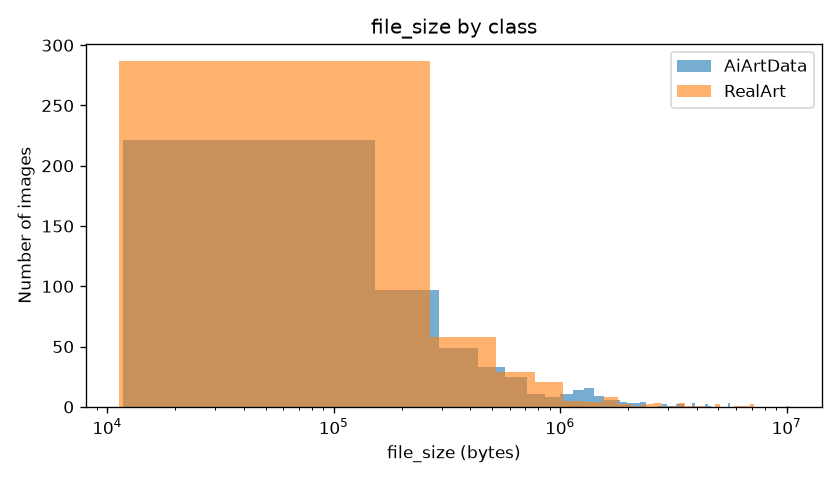
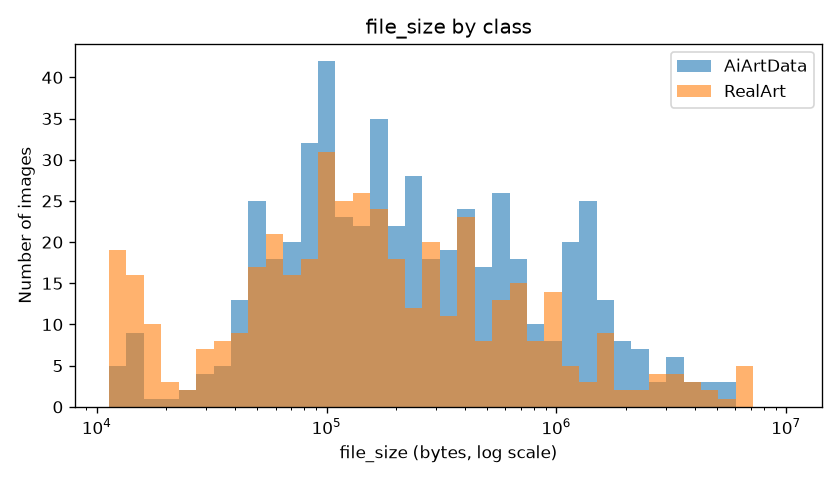
Task 1.3: fix file-size histogram bins

diff --git a/src/eda.py b/src/eda.py
@@ -2,6 +2,7 @@ from pathlib import Path
 import pandas as pd
 import matplotlib.pyplot as plt
 from PIL import Image
+import numpy as np
 
 Path("figures").mkdir(exist_ok=True)
 df = pd.read_csv("audit.csv")
@@ -24,9 +25,11 @@ for c in classes:
 # Histograms per class
 for col, log in [("width", False), ("height", False), ("file_size", True)]:
     fig, ax = plt.subplots(figsize=(7, 4))
+    lo, hi = df[col].min(), df[col].max()
+    bins = np.logspace(np.log10(lo), np.log10(hi), 40) if log else 40
     for c in classes:
-        ax.hist(df[df["class"] == c][col], bins=40, alpha=0.6, label=c)
-    ax.set_xlabel(col + (" (bytes)" if col == "file_size" else " (px)"))
+        ax.hist(df[df["class"] == c][col], bins=bins, alpha=0.6, label=c)
+    ax.set_xlabel(col + (" (bytes, log scale)" if log else " (px)"))
     ax.set_ylabel("Number of images")
     if log:
         ax.set_xscale("log")
